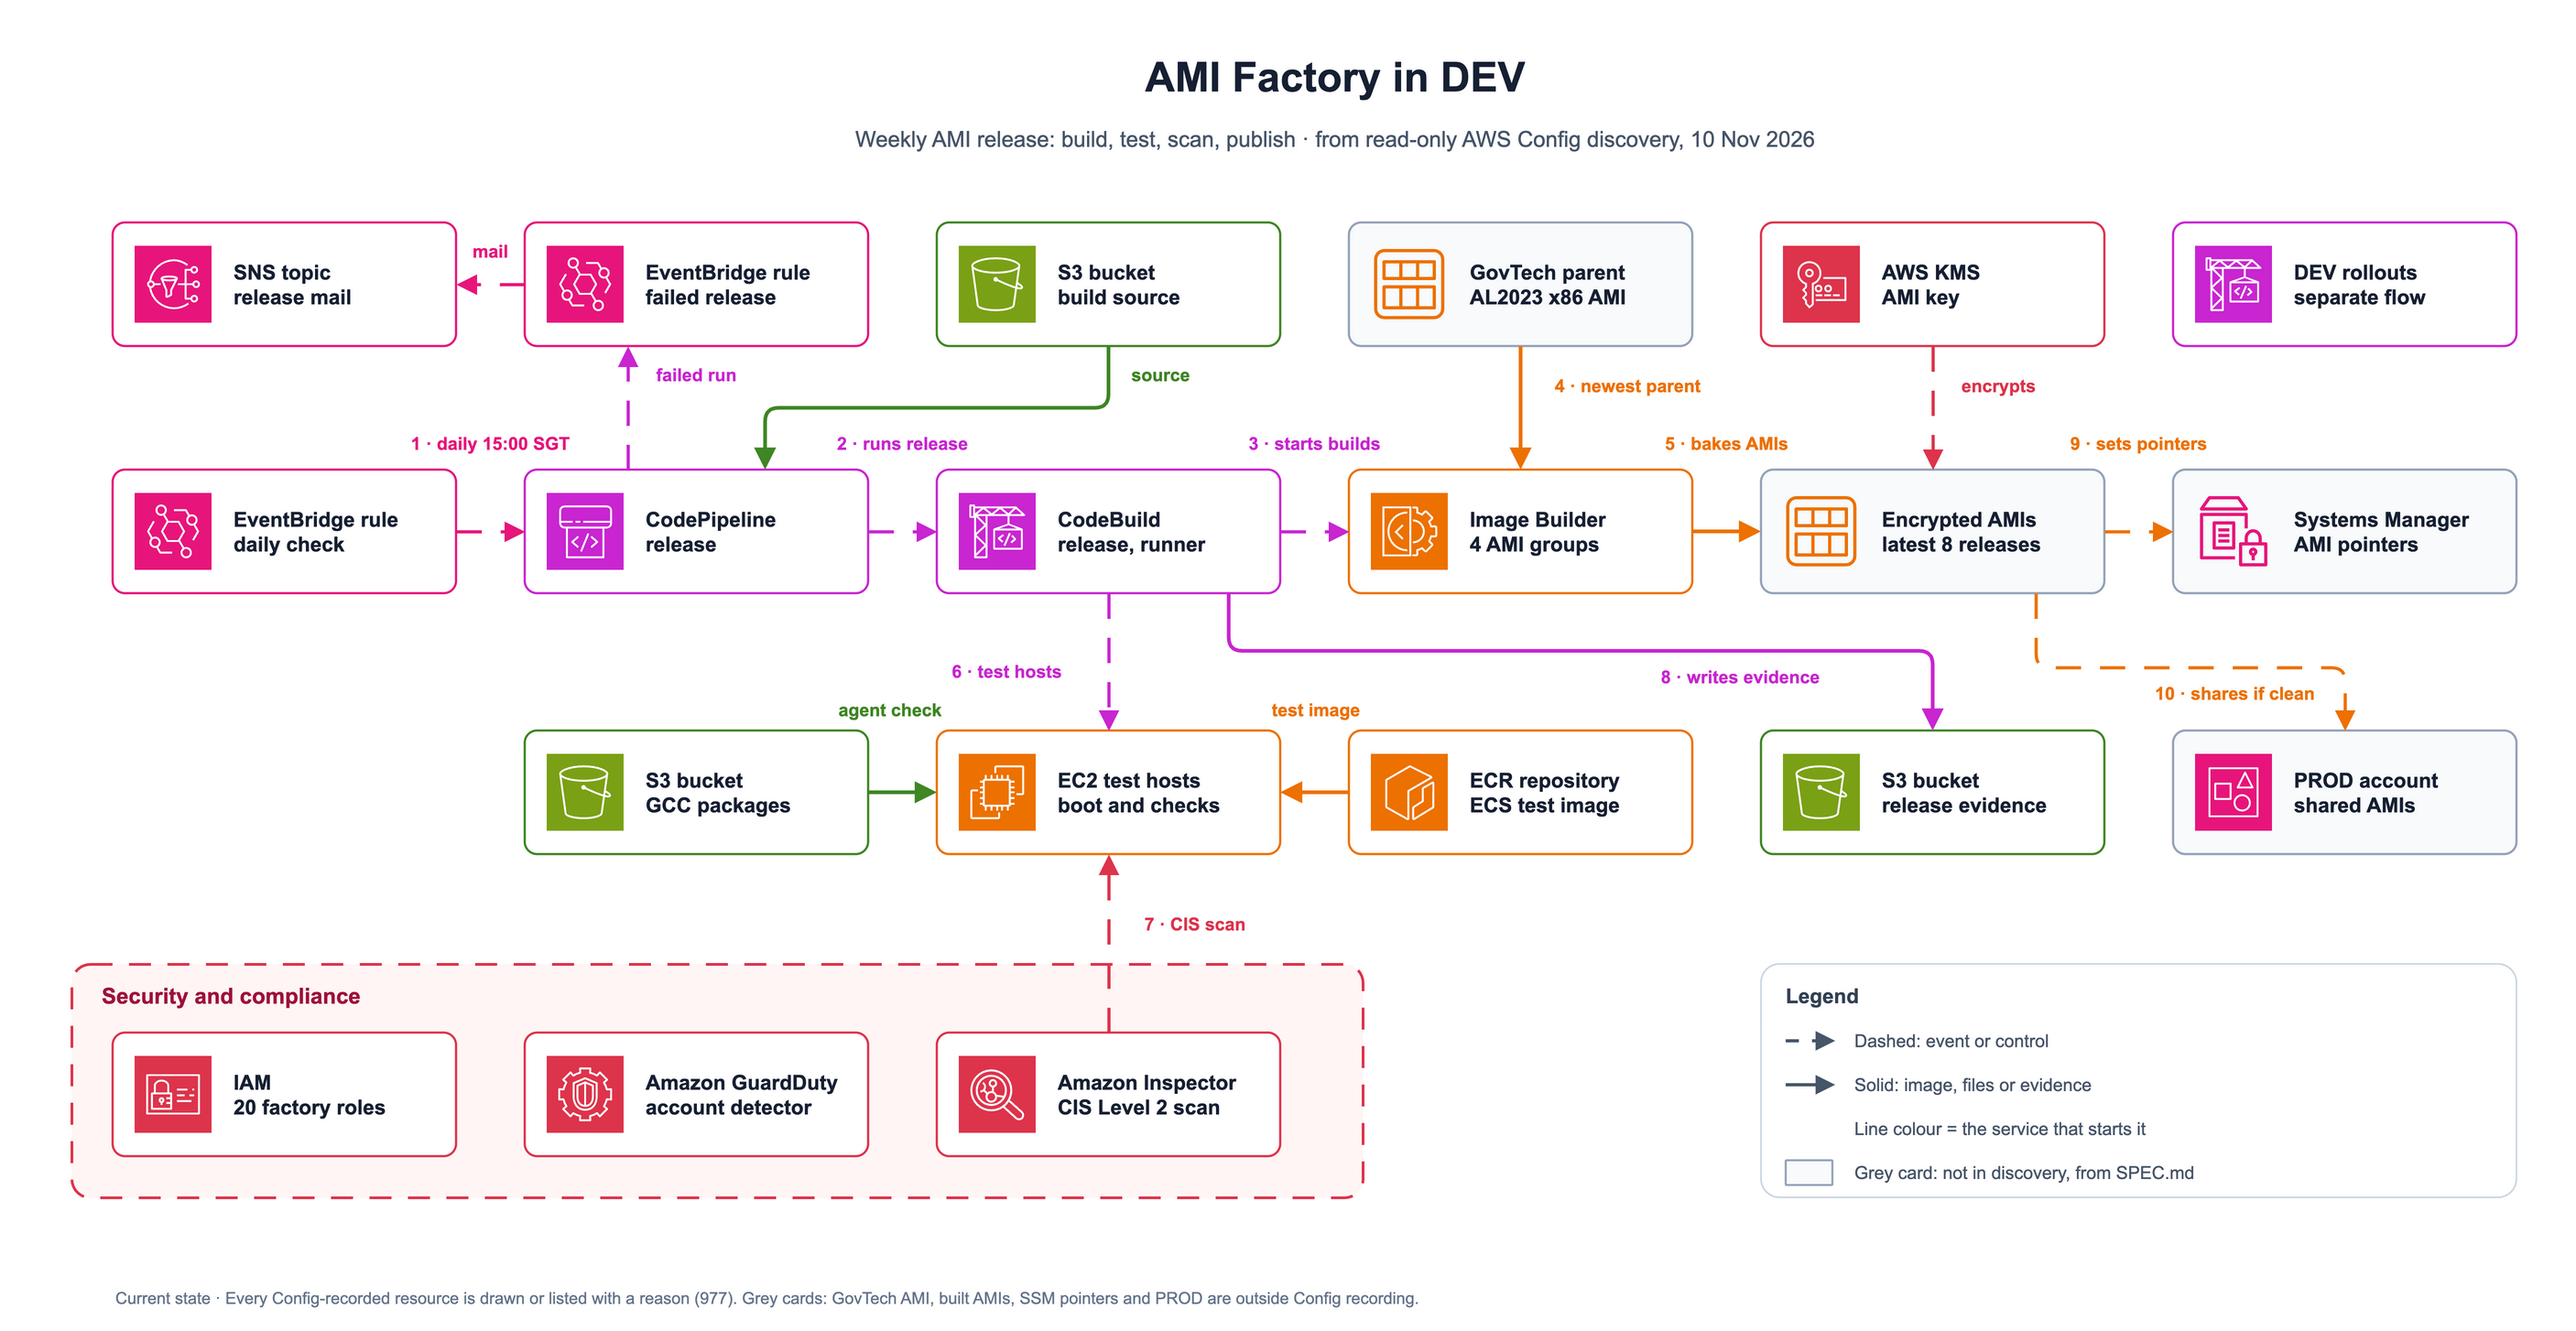
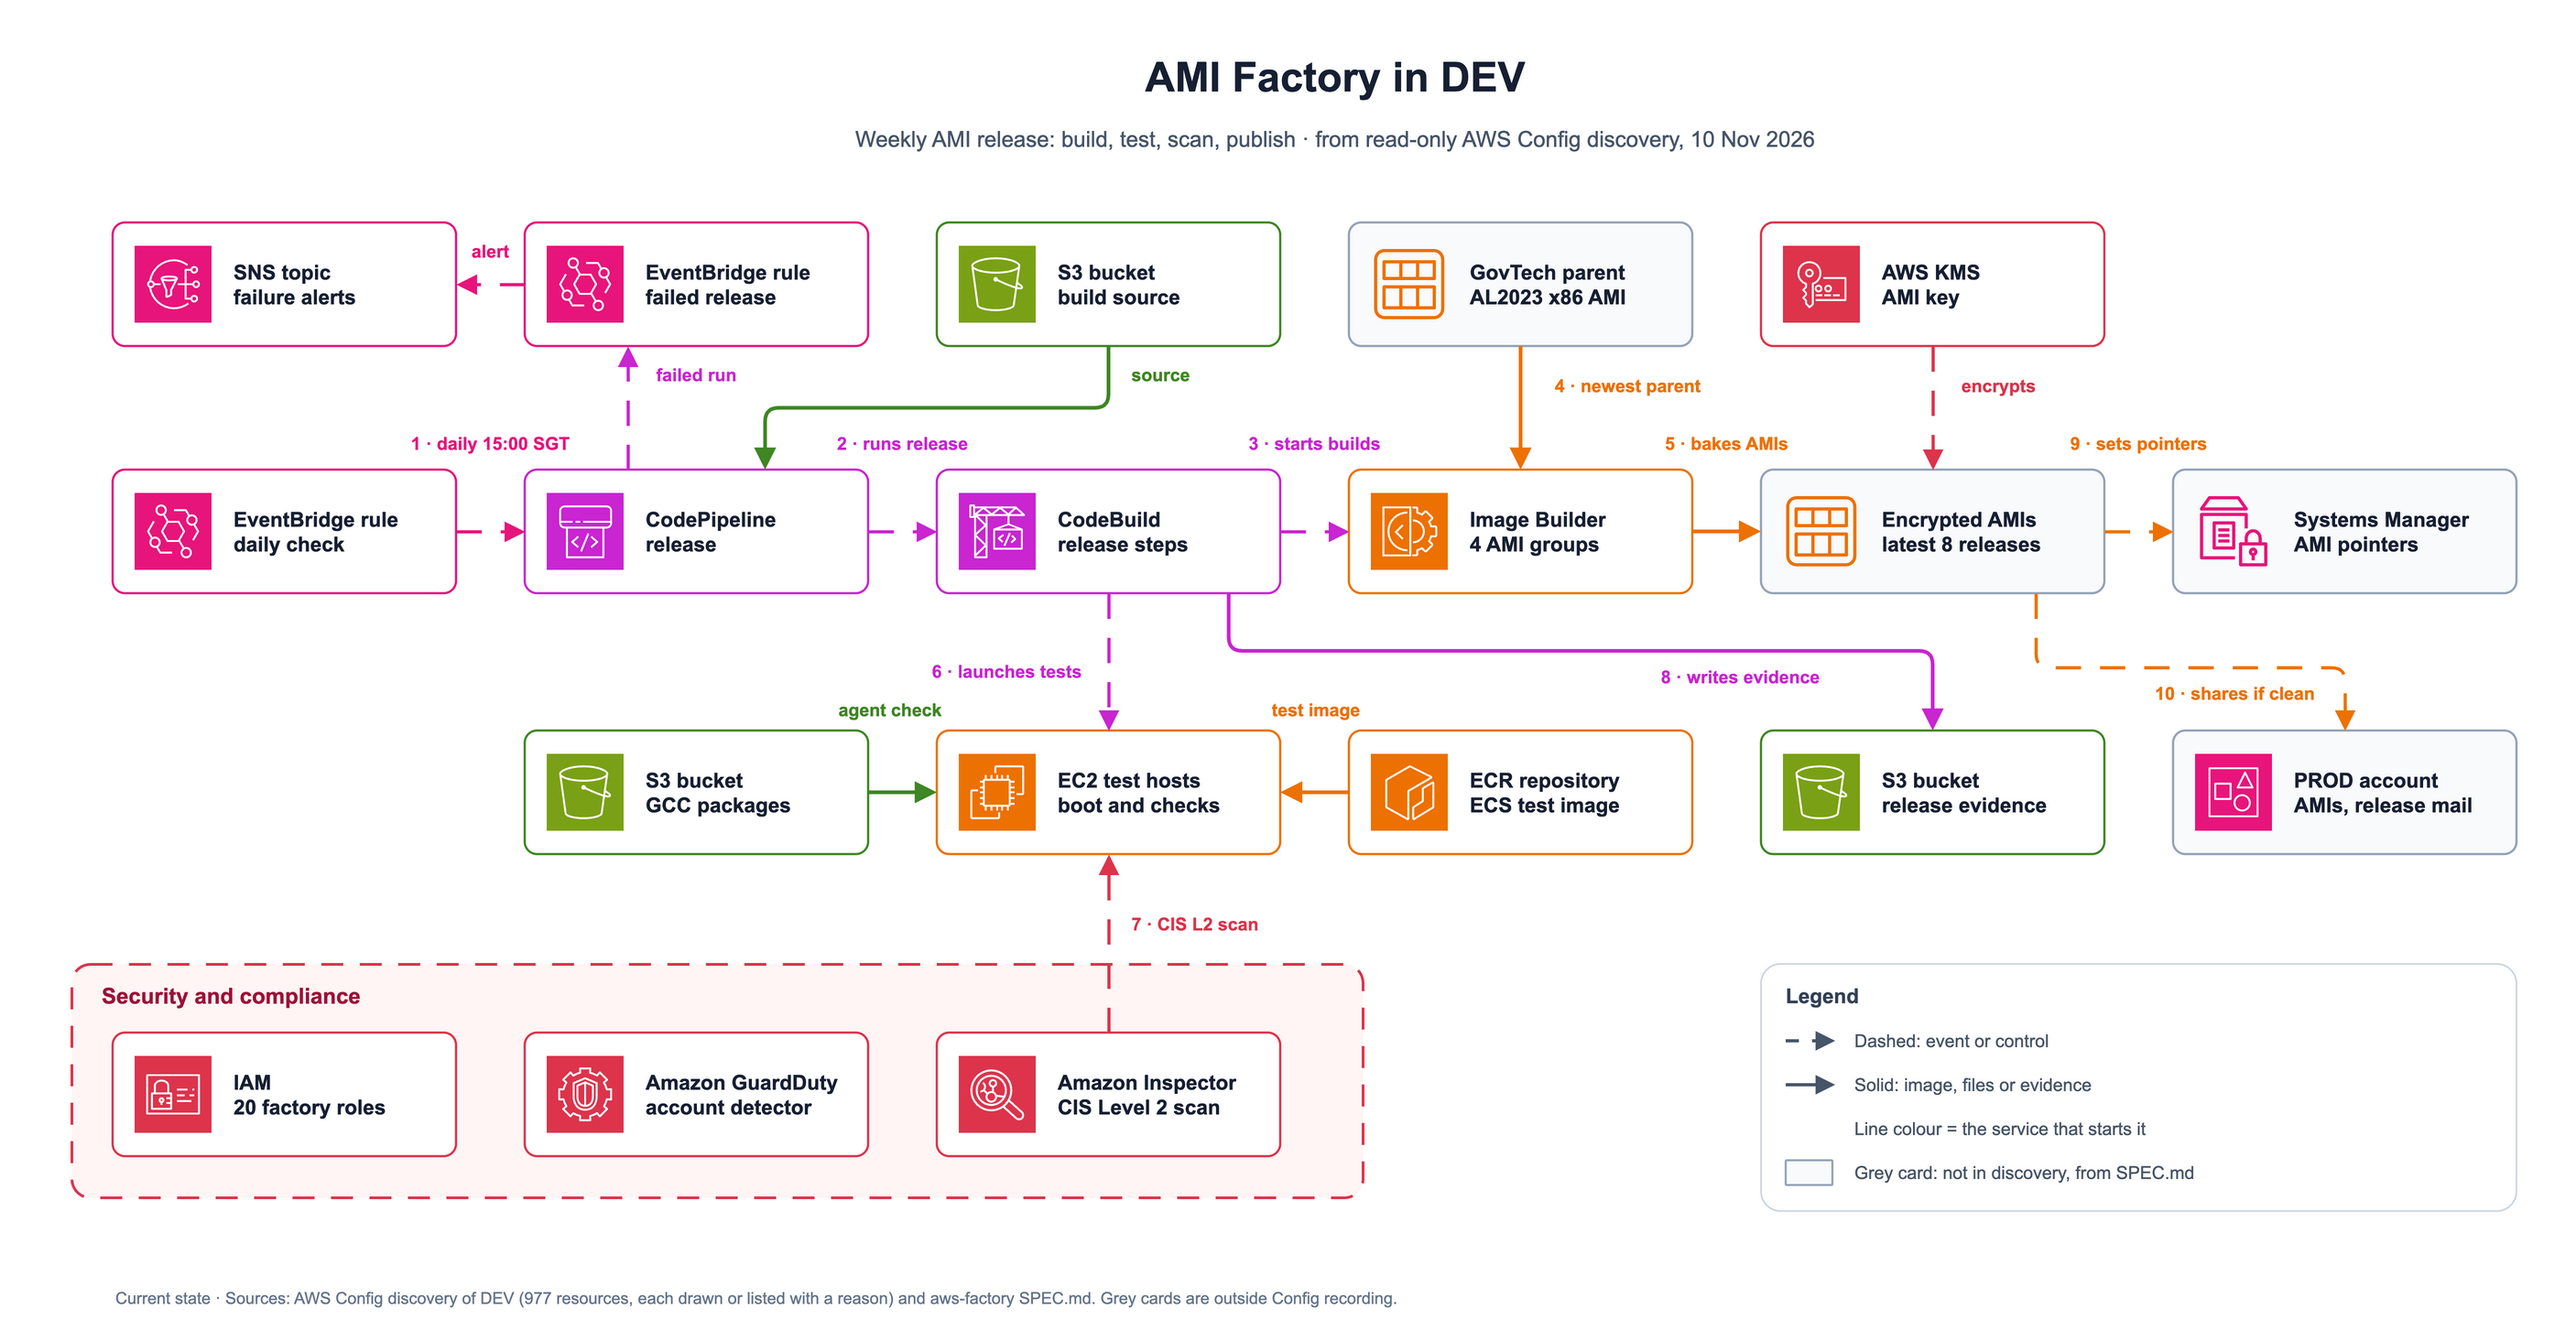
aws-architecture-diagram: self-review round on the reference example
- validate_spec.py fails a legend whose items overflow the box
  (44 px + 32 px per item, matching generate_drawio.py)
- reference example checked against aws-factory SPEC.md and RUNBOOK:
  DEV SNS topic is failure alerts only (release mail goes to PROD);
  CI runner and rollout pipelines moved to the coverage record as
  separate flows; CIS Level 2 named; sources in the footer

diff --git a/skills/aws-architecture-diagram/scripts/validate_spec.py b/skills/aws-architecture-diagram/scripts/validate_spec.py
@@ -330,6 +330,10 @@ def main() -> None:
                 errors.append(f"legend is outside page: {legend_rect}")
             if not legend.get("items"):
                 warnings.append("explicit legend has no items")
+            # generate_drawio.py: first row at +44, rows 32 apart, each about 24 tall with a small margin.
+            needed = 44 + 32 * len(legend.get("items", []))
+            if legend.get("items") and legend_rect[3] < needed:
+                errors.append(f"legend items overflow the box: height {legend_rect[3]} < {needed} for {len(legend['items'])} items")
         except ValueError as exc:
             errors.append(str(exc))
 
